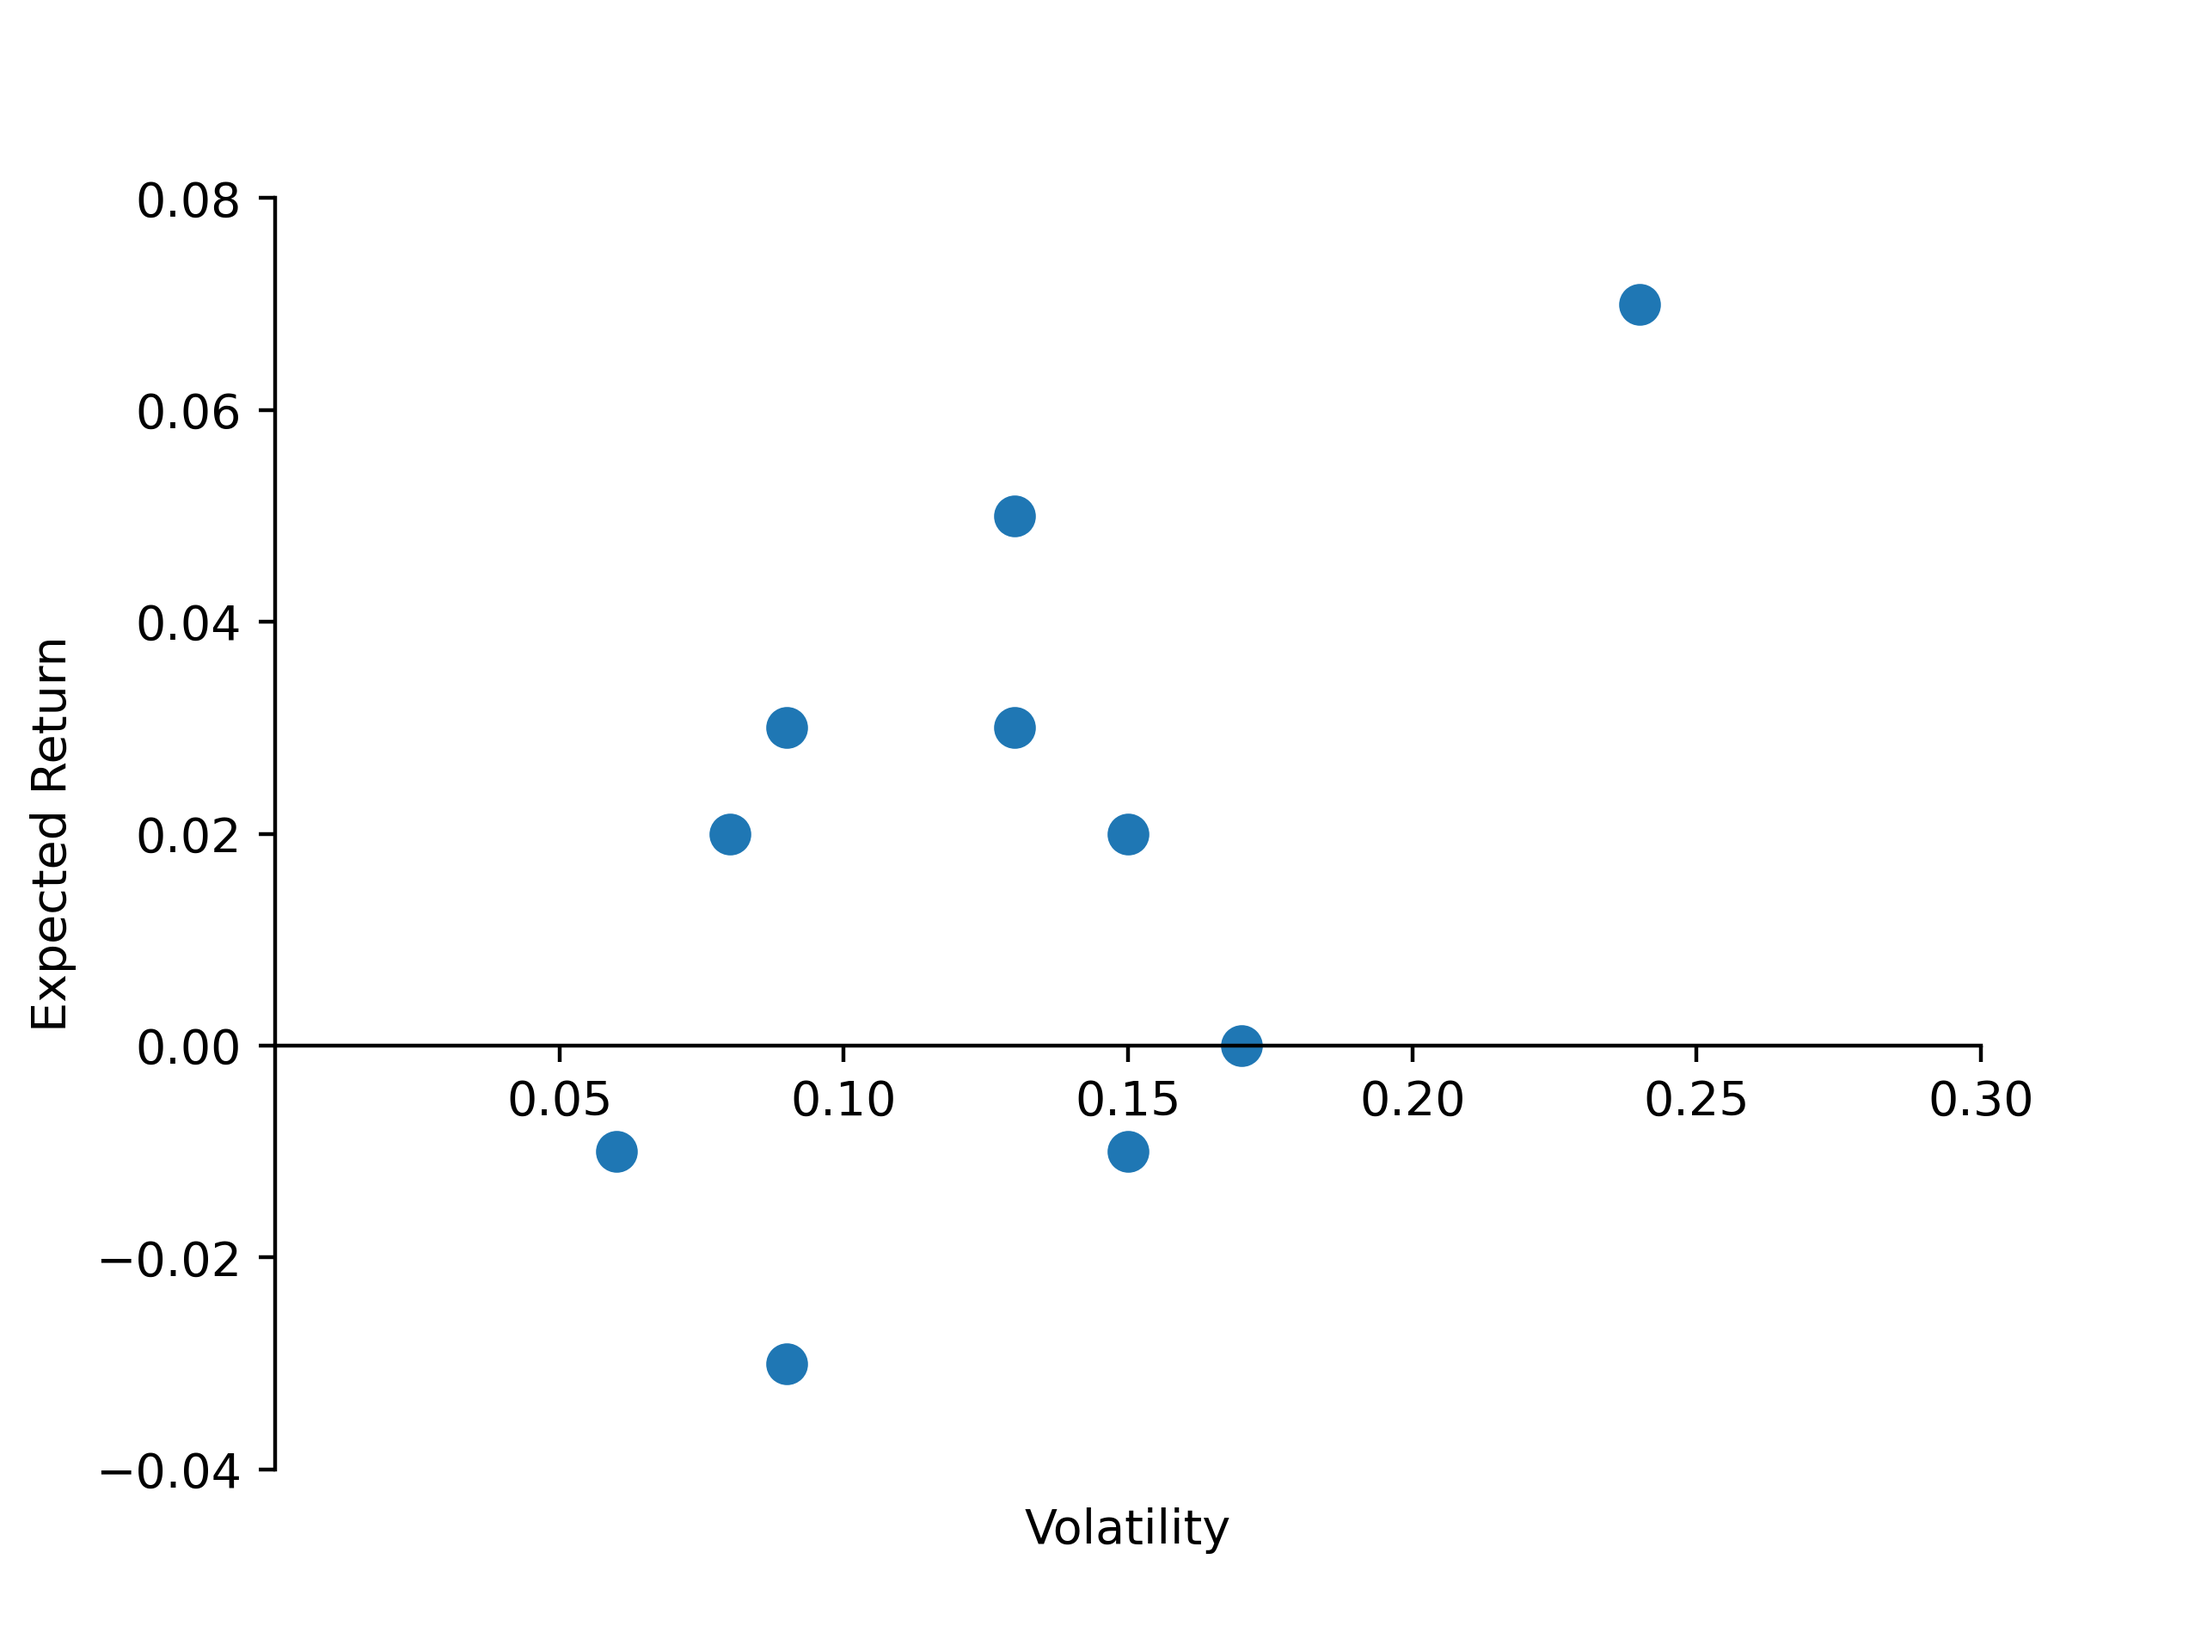
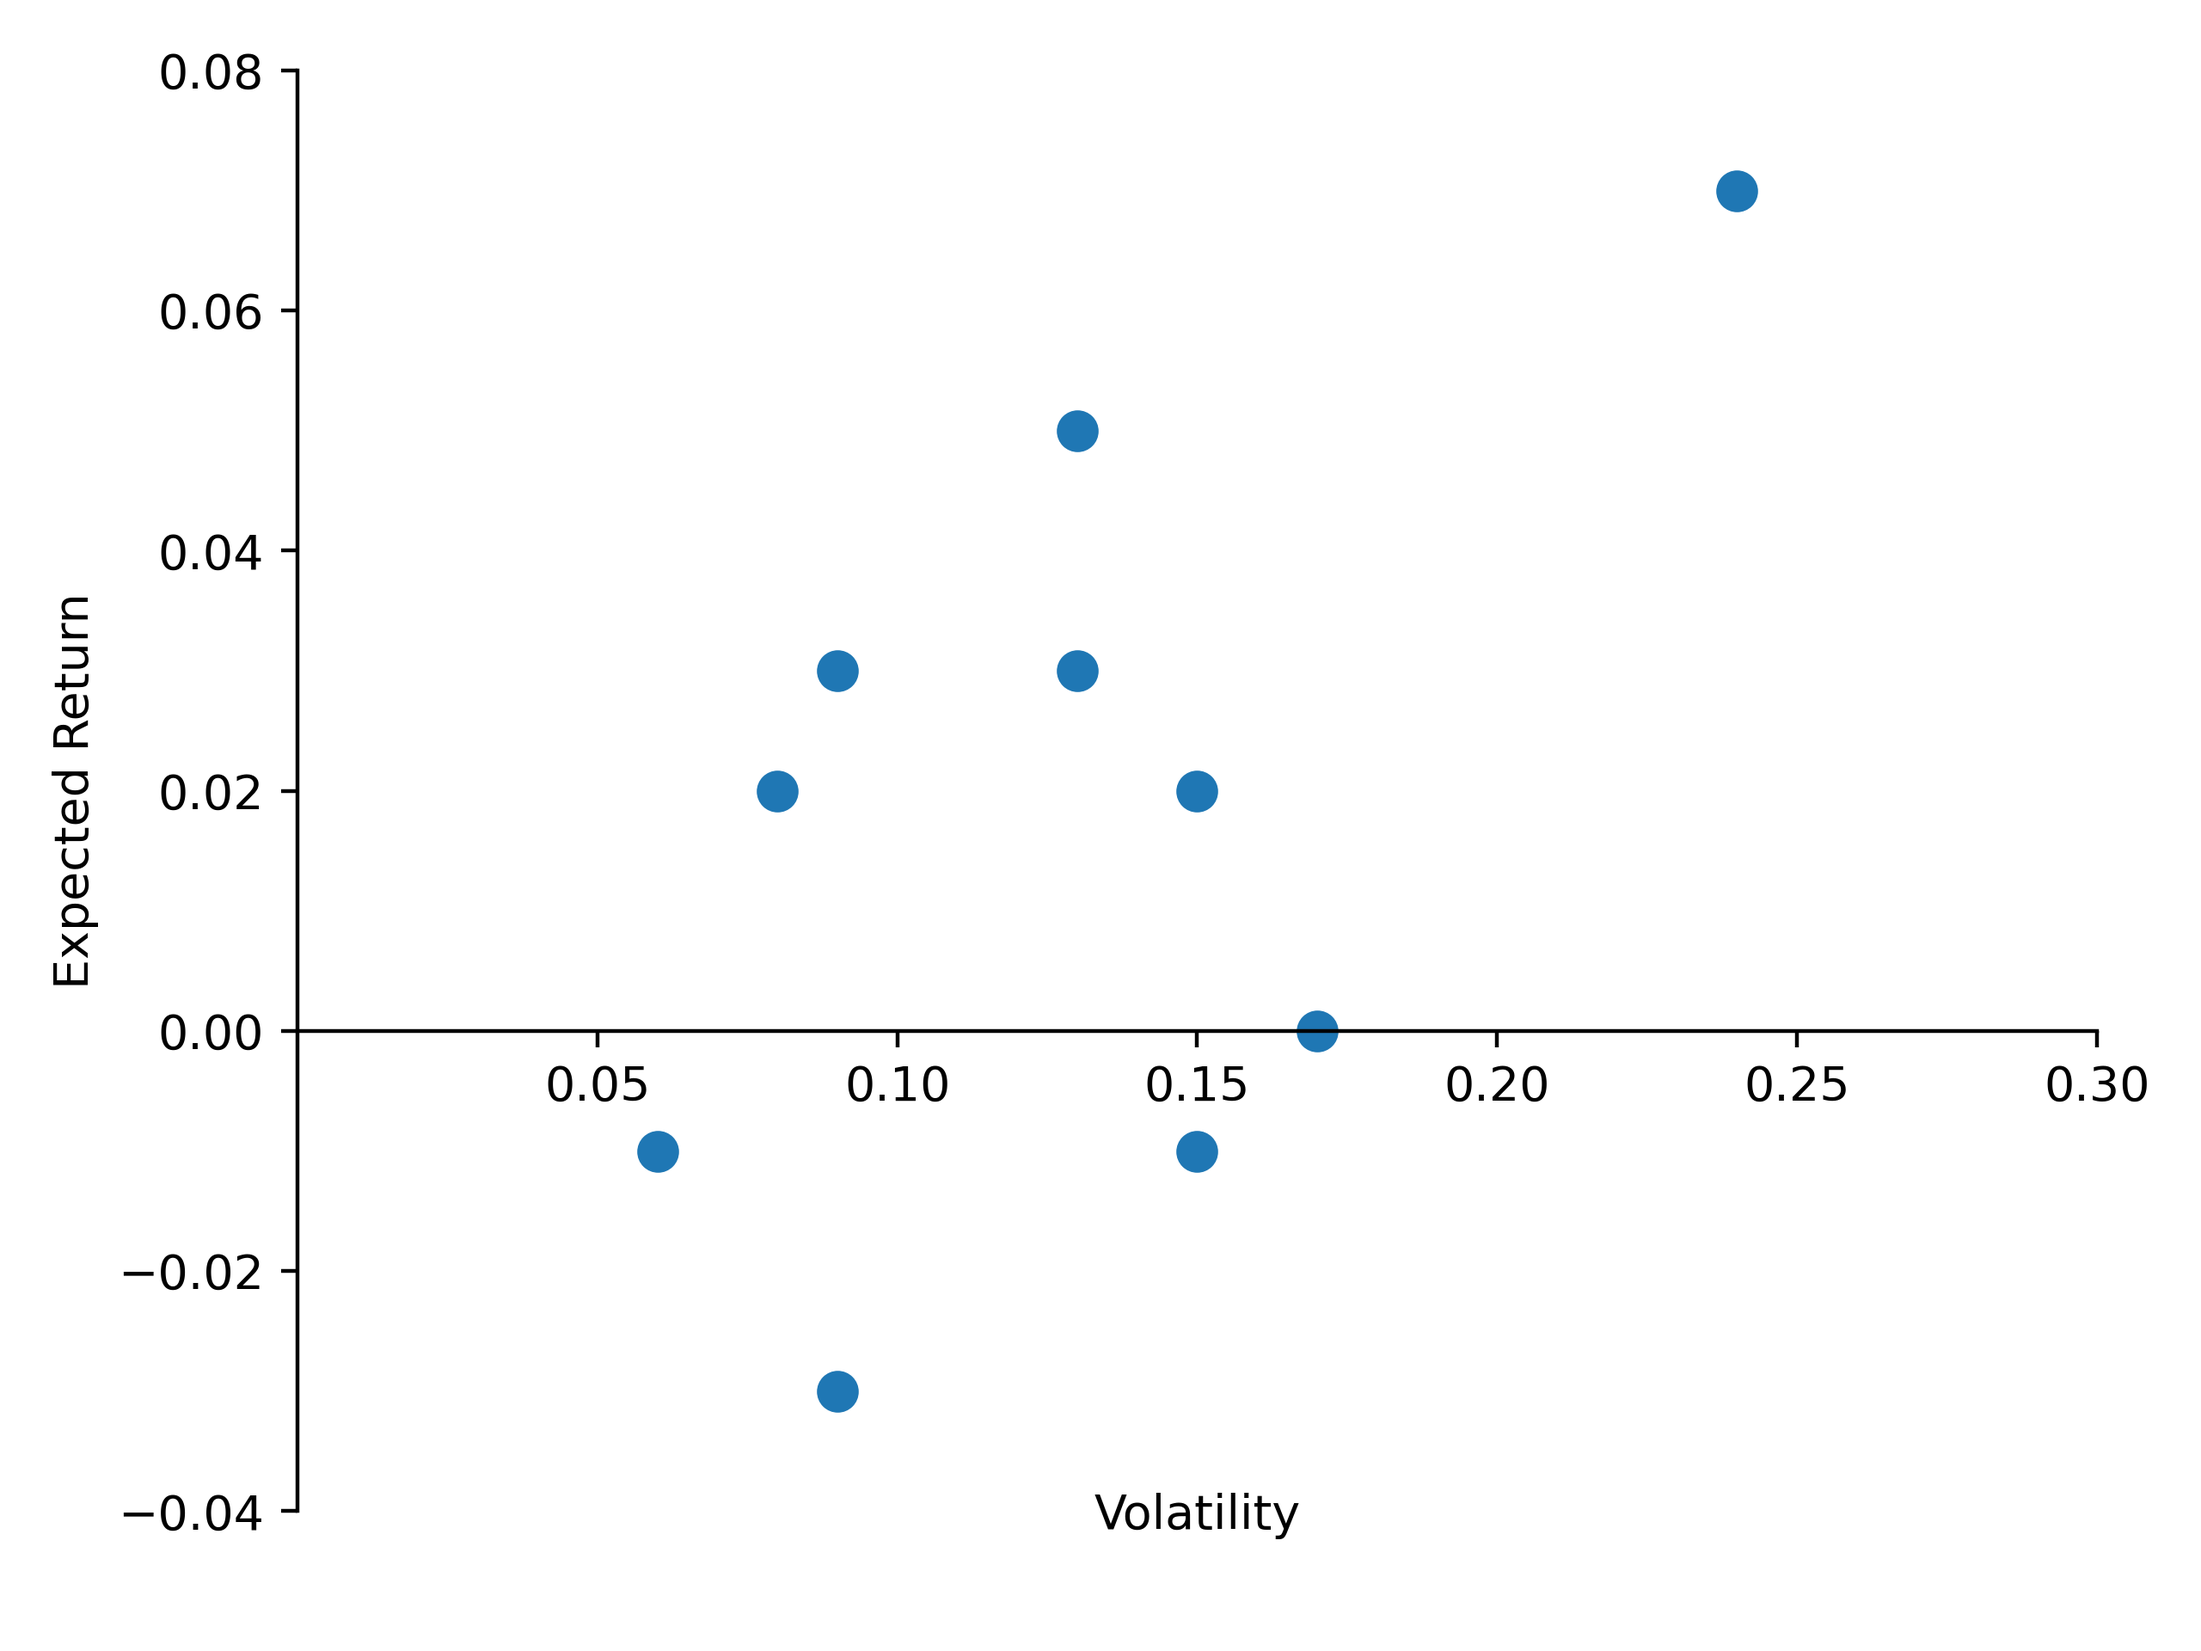
more plots. updated some of my previous ones so they look nicer.

diff --git a/CH8_8.4.1.py b/CH8_8.4.1.py
@@ -11,12 +11,12 @@ it.xaxis.set_visible(False)
 it.yaxis.set_visible(False)
 
 it.plot([0,10],[4.65,4.65],color='black')
-it.plot([0,10],[10,10],color='black')
+it.plot([.6,10],[10,10],color='black')
 it.plot([0,10],[9.3,9.3],color='black')
 it.plot([4.7+.6,4.7+.6],[0,10],color='black')
 it.plot([.6,.6],[0,10],color='black')
 it.plot([0,10],[0,0],color='black')
-it.plot([0,0],[0,10],color='black')
+it.plot([0,0],[0,9.3],color='black')
 it.plot([10,10],[0,10],color='black')
 
 
@@ -25,12 +25,12 @@ plt.text(-11.1,8,'Case 1',fontweight='bold',fontsize=10)
 plt.text(-6.65,8,'Case 2',fontweight='bold',fontsize=10)
 plt.text(-11.1,4.1,'Case 3',fontweight='bold',fontsize=10)
 plt.text(-6.65,4.1,'Case 4',fontweight='bold',fontsize=10)
-plt.text(-9.8,9.15,'+',fontweight='bold',fontsize=10)
-plt.text(-12.93,7.5,'+',fontweight='bold',fontsize=10)
-plt.text(-5.7,9.35,'_',fontweight='bold',fontsize=10)
-plt.text(-12.85,3,'_',fontweight='bold',fontsize=10)
+plt.text(-10.5,9.17,'+',fontweight='bold',fontsize=10)
+plt.text(-12.93,7,'+',fontweight='bold',fontsize=10)
+plt.text(-6,9.37,'_',fontweight='bold',fontsize=10)
+plt.text(-12.85,3.45,'_',fontweight='bold',fontsize=10)
 plt.text(-9.3,10,r"$E\:[r_A]-r_f$",fontsize=13,fontweight='bold')
-plt.text(-14,5,r"$\beta_{A,p}$",fontsize=13,fontweight='bold',rotation='vertical')
+plt.text(-13.9,5,r"$\beta_{A,p}$",fontsize=13,fontweight='bold',rotation='vertical')
 plt.text(-10.25, 6.7, "Sign of alpha not\nknown unless\ncalculated", ha='center', va='center')
 plt.text(-5.85,6.92,'Alpha must be\nnegative',ha='center',va='center')
 plt.text(-10.25,3.02,'Alpha must be\npositive',ha='center',va='center')
@@ -68,12 +68,10 @@ for spine in asdf.spines.values():
     spine.set_linewidth(2.5)
 
 
-
 plt.xlim(0,8)
 plt.ylim(1,10)
 asdf.set_aspect('equal')
 
 
-
-# plt.savefig('plots/CH8_8.4.1.png',dpi=400)
+plt.savefig('plots/CH8_8.4.1.png',dpi=400)
 plt.show()

diff --git a/CH15_15.2.1_hockeysticks.py b/CH15_15.2.1_hockeysticks.py
@@ -1,0 +1,46 @@
+import matplotlib.pyplot as plt
+
+nice_blue=(10/255,102/255,194/255)
+nice_red=(210/255, 43/255, 43/255)
+fig, axes = plt.subplots(2, 2, figsize=(12,7))
+
+
+figz=[axes[0,0],axes[0,1],axes[1,0],axes[1,1]]
+
+
+figz[0].plot([90,99.94],[-1,-1],color=nice_blue,lw=2.2)
+figz[0].plot([100.02,110],[-.98,9],color=nice_blue,lw=2.2)
+figz[0].set_title('Long Call Option Profit')
+
+figz[1].plot([90,99.98],[9,-.98],color=nice_red,lw=2.2)
+figz[1].plot([100.06,110],[-1,-1],color=nice_red,lw=2.2)
+figz[1].set_title('Long Put Option Profit')
+
+figz[2].plot([90,99.94],[1,1],color=nice_blue,lw=2.2)
+figz[2].plot([100.02,110],[.98,-9],color=nice_blue,lw=2.2)
+figz[2].set_title('Short Call Option Profit')
+
+figz[3].plot([90,99.98],[-9,.98],color=nice_red,lw=2.2)
+figz[3].plot([100.06,110],[1,1],color=nice_red,lw=2.2)
+figz[3].set_title('Short Put Option Profit')
+
+for axes in figz:
+    axes.spines['right'].set_visible(False)
+    axes.spines['top'].set_visible(False)
+    axes.spines['bottom'].set_position('zero')
+    axes.set_xticks([85, 90, 95, 100, 105, 110, 115])
+    axes.set_xlim(80,115)
+
+for a in [0,1]:
+    figz[a].set_yticks([-2,0,2,4,6,8,10])
+
+for a in [2,3]:
+    figz[a].set_yticks([-10,-8,-6,-4,-2,0,2])
+
+plt.subplots_adjust(hspace=0.4)
+plt.subplots_adjust(wspace=0.2)
+
+# plt.tight_layout()
+plt.savefig('plots/CH15_15.2.1_hockeysticks.png',dpi=400)
+plt.show()
+

diff --git a/CH8_8.3.1.py b/CH8_8.3.1.py
@@ -9,16 +9,19 @@ listy=['Panel A','Panel B','Panel C']
 x_values=[1.4,2.2,2]
 
 for i, ax in enumerate(axes):
-    ax.plot(x, y, color='black')
+    ax.plot(x, y, color='black',lw=2)
     if i == 0:
+        ax.plot([x_values[i],x_values[i]],[0,1.28], color='black', linestyle=(0,(5,5)),lw=1)
         ax.plot([1, 1.8], [0.32, 2.24], color='red', lw=2)
-        ax.plot([x_values[i],x_values[i]],[0,1.28], color='black', linestyle='--',lw=1)
+
     elif i == 1:
+        ax.plot([x_values[i],x_values[i]],[0,1.92], color='black', linestyle=(0, (5, 5)),lw=1)
         ax.plot([1.498, 2.925], [2.4816,1.34], color='red', lw=2)
-        ax.plot([x_values[i],x_values[i]],[0,1.92], color='black', linestyle='--',lw=1)
+
     elif i == 2:
+        ax.plot([x_values[i],x_values[i]],[0,2], color='black', linestyle=(0, (5, 5)),lw=1)
         ax.plot([1,3],[2,2], color='red', lw=2)
-        ax.plot([x_values[i],x_values[i]],[0,2], color='black', linestyle='--',lw=1)
+
 
     ax.text(3.3, -0.13, r"$W_i$", ha='center', va='center', fontsize=10)
 

diff --git a/CH15_15.2.4_butterfly.py b/CH15_15.2.4_butterfly.py
@@ -1,0 +1,20 @@
+import matplotlib.pyplot as plt
+
+
+a,b=plt.subplots(1,1,figsize=(8,4))
+
+x=range(70,131)
+y=[-7.965,-7.965,-7.965,-7.965,-7.965,-7.965,-7.965,-7.965,-7.965,-7.965,-7.965,-6.965,-5.965,-4.965,-3.965,-2.965,-1.965,-0.965,0.035,1.035,2.035,3.035,4.035,5.035,6.035,7.035,8.035,9.035,10.035,11.035,12.035,11.035,10.035,9.035,8.035,7.035,6.035,5.035,4.035,3.035,2.035,1.035,0.035,-0.965,-1.965,-2.965,-3.965,-4.965,-5.965,-6.965,-7.965,-7.965,-7.965,-7.965,-7.965,-7.965,-7.965,-7.965,-7.965,-7.965,-7.965]
+nice_blue=(10/255,102/255,194/255)
+plt.plot(x,y,color=nice_blue,lw=2.2)
+plt.xticks([70,80,90,100,110,120,130,140])
+plt.xlim(60,140)
+plt.yticks([-10,-5,0,5,10,15])
+b.spines['right'].set_visible(False)
+b.spines['top'].set_visible(False)
+b.spines['bottom'].set_position('zero')
+plt.title('Butterfly Spread')
+
+plt.tight_layout()
+plt.savefig('plots/CH15_15.2.4_butterfly.png',dpi=400)
+plt.show()

diff --git a/CH15_15.2.3_coveredcall.py b/CH15_15.2.3_coveredcall.py
@@ -1,0 +1,27 @@
+import matplotlib.pyplot as plt
+
+a,b=plt.subplots(1,1,figsize=(8,5))
+
+plt.plot([90,100],[1,1],'--',color=(1,140/255,59/255),lw=2.2)
+plt.plot([100,110],[1,-8],'--',color=(1,140/255,59/255),lw=2.2)
+
+plt.plot([90,110],[-9,11],':',color=(10/255,102/255,194/255),lw=2.2)
+
+plt.plot([90,99.95],[-8.5,1.45],color=(143/255,143/255,143/255),lw=2.2)
+plt.plot([100.03,110],[1.5,1.5],color=(143/255,143/255,143/255),lw=2.2)
+plt.title('Covered Call')
+
+plt.text(110,9.5,'stock profit')
+plt.text(110,2.2,'covered call')
+plt.text(110,-7.2,'short call profit')
+
+plt.xticks([90, 95, 100, 105, 110, 115])
+plt.yticks([-10,-5,0,5,10,15])
+plt.xlim(85,115)
+b.spines['right'].set_visible(False)
+b.spines['top'].set_visible(False)
+b.spines['bottom'].set_position('zero')
+
+plt.tight_layout()
+plt.savefig('plots/CH15_15.2.3_coveredcall.png',dpi=400)
+plt.show()

diff --git a/CH15_15.2.2_straddle.py b/CH15_15.2.2_straddle.py
@@ -1,0 +1,16 @@
+import matplotlib.pyplot as plt
+
+a,b=plt.subplots(1,1,figsize=(8,4))
+nice_blue=(10/255,102/255,194/255)
+plt.plot([90,100],[8,-2],color=nice_blue,lw=2.2)
+plt.plot([100,110],[-2,8],color=nice_blue,lw=2.2)
+plt.title("Straddle")
+b.spines['right'].set_visible(False)
+b.spines['top'].set_visible(False)
+plt.xticks([90, 95, 100, 105, 110, 115])
+plt.xlim(85,115)
+b.spines['bottom'].set_position('zero')
+
+plt.tight_layout()
+plt.savefig('plots/CH15_15.2.2_straddle.png',dpi=400)
+plt.show()

diff --git a/CH5_5.3_pdf.py b/CH5_5.3_pdf.py
@@ -8,7 +8,7 @@ x_altered=[2*x[i]+0.6 for i in range(len(x))]
 y = skewnorm.pdf(x_altered, 5)
 y_scaled = y / y.max() * 1.4
 
-plt.plot(x,y_scaled)
+plt.plot(x,y_scaled,lw=2.2)
 
 ax = plt.gca()
 ax.spines['left'].set_position(('data', 0))
@@ -25,5 +25,6 @@ plt.yticks([0.2,0.4,0.6,0.8,1,1.2,1.4,1.6])
 plt.xlabel('Outcomes')
 plt.ylim(bottom=0)
 
+plt.tight_layout()
 plt.savefig('plots/CH5_5.3_pdf.png',dpi=400)
 plt.show()

diff --git a/CH5_5.2_pdf.py b/CH5_5.2_pdf.py
@@ -5,7 +5,7 @@ import numpy as np
 x=np.linspace(-1,1,1000)
 y = norm.pdf(x, 0.08, 0.2)
 
-plt.plot(x,y)
+plt.plot(x,y,lw=2.2)
 
 plt.ylim(0,2.5)
 plt.fill_between(x,y,where=(x>0.5),color='grey')
@@ -25,6 +25,6 @@ plt.xlim(-1,1)
 plt.yticks([0.5, 1, 1.5, 2, 2.5])
 plt.xlabel('Outcomes')
 
-
+plt.tight_layout()
 plt.savefig('plots/CH5_5.2_pdf.png',dpi=400)
 plt.show()

diff --git a/CH5_5.1_pdf.py b/CH5_5.1_pdf.py
@@ -8,5 +8,6 @@ plt.ylim(0,0.8)
 plt.xlabel('Outcomes')
 plt.ylabel('Probability')
 
+plt.tight_layout()
 plt.savefig('plots/CH5_5.1_pdf.png',dpi=400)
 plt.show()

diff --git a/CH8_8.3.4.py b/CH8_8.3.4.py
@@ -30,5 +30,6 @@ plt.xlim(0,8)
 plt.ylim(1,10)
 asdf.set_aspect('equal')
 
+plt.tight_layout()
 plt.savefig('plots/CH8_8.3.4.png',dpi=400)
 plt.show()

diff --git a/CH8_8.2.1.py b/CH8_8.2.1.py
@@ -21,6 +21,6 @@ plt.ylabel('Expected Return')
 
 
 
-
+plt.tight_layout()
 plt.savefig('plots/CH8_8.2.1.png',dpi=400)
 plt.show()
